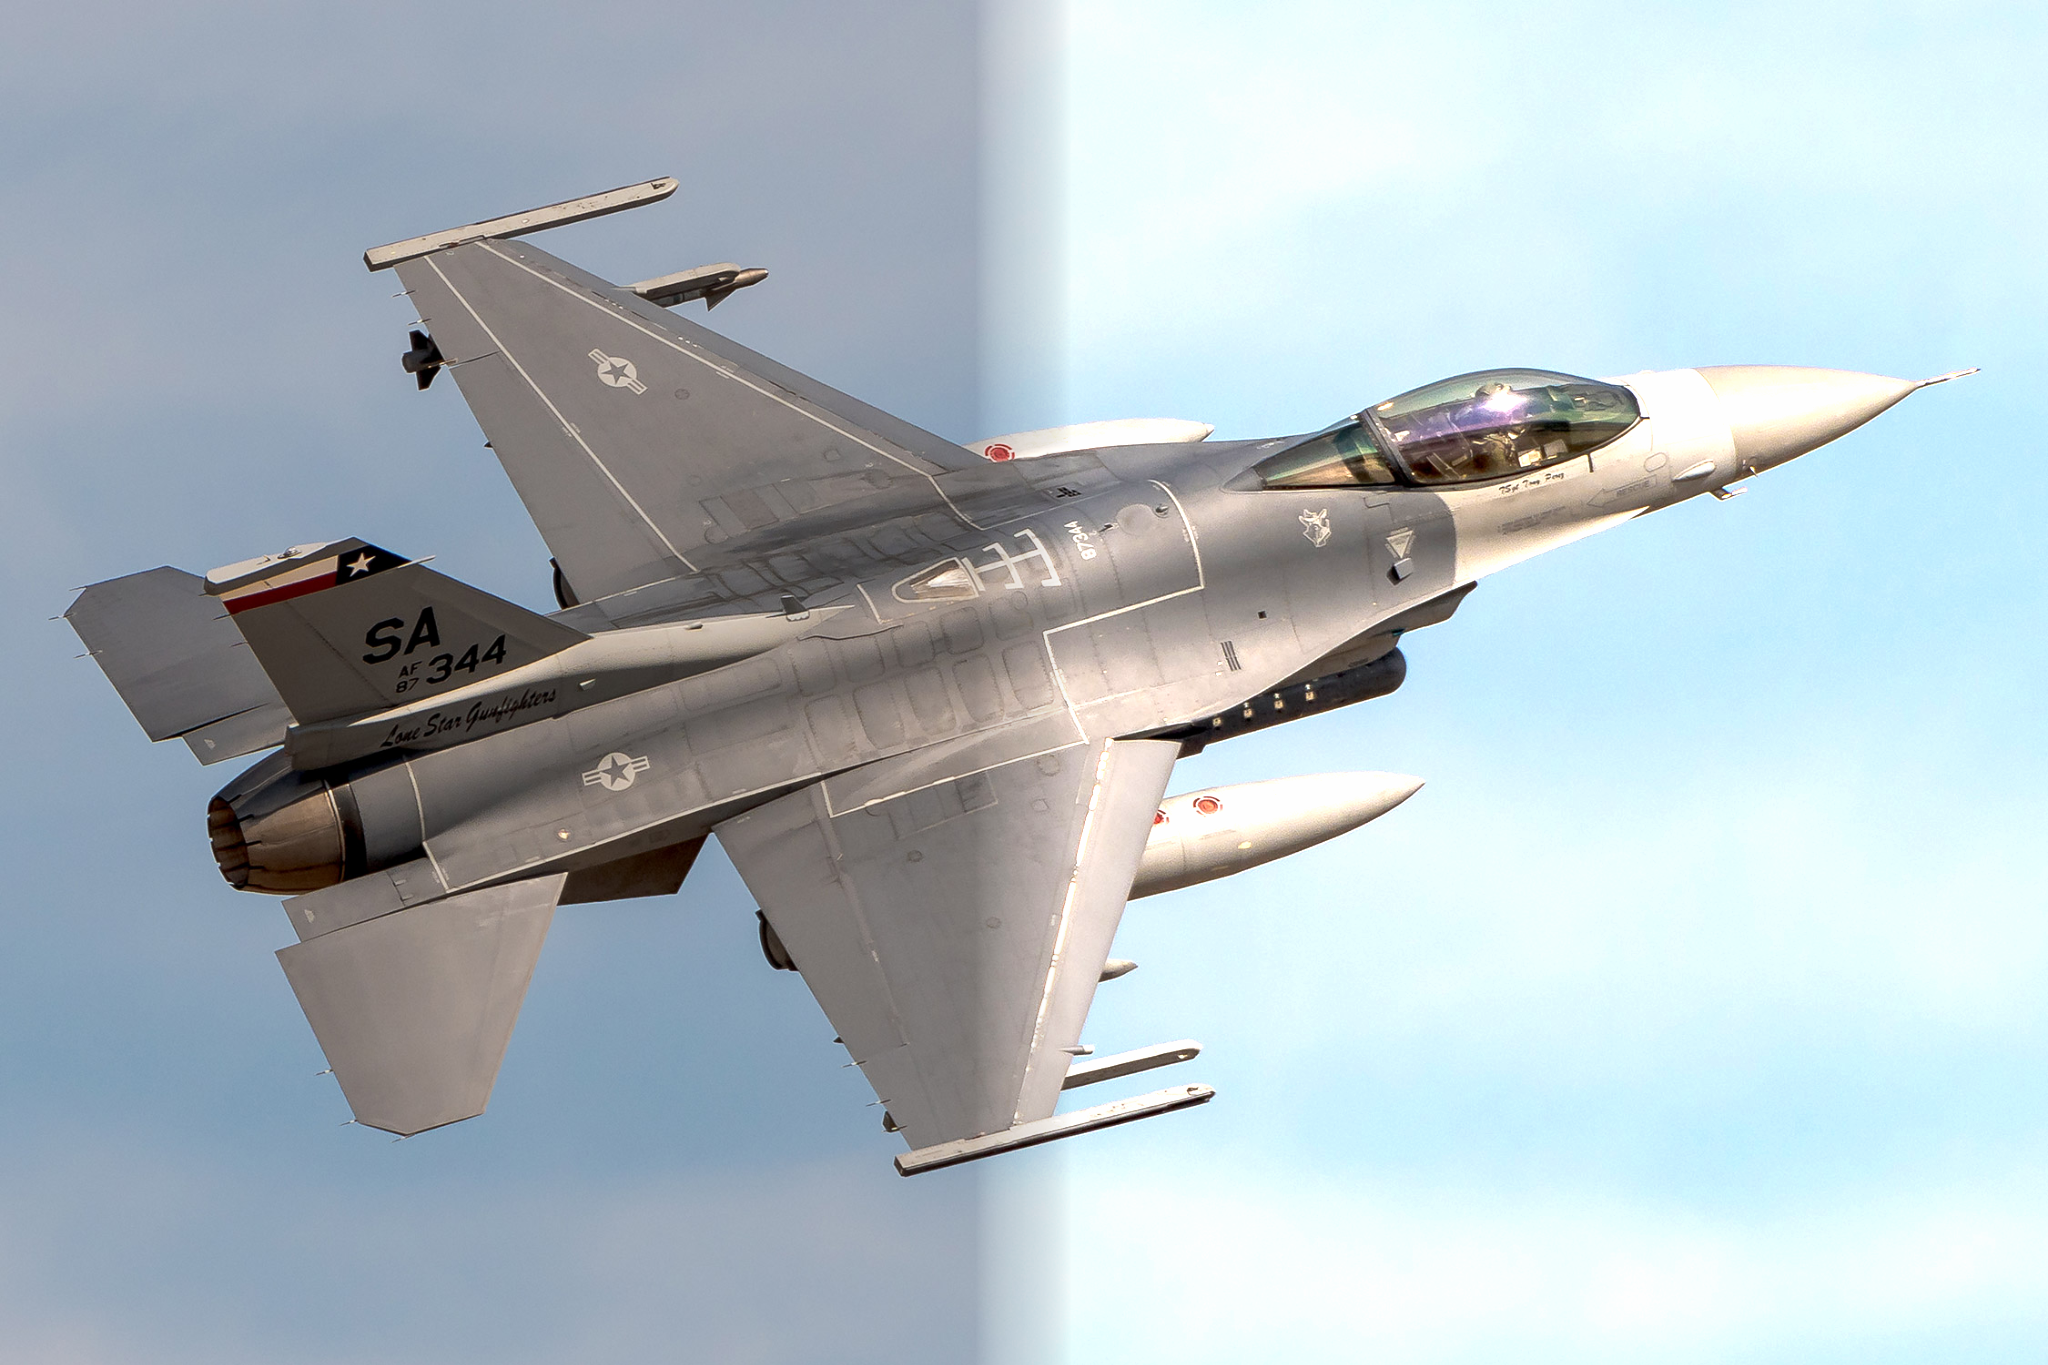
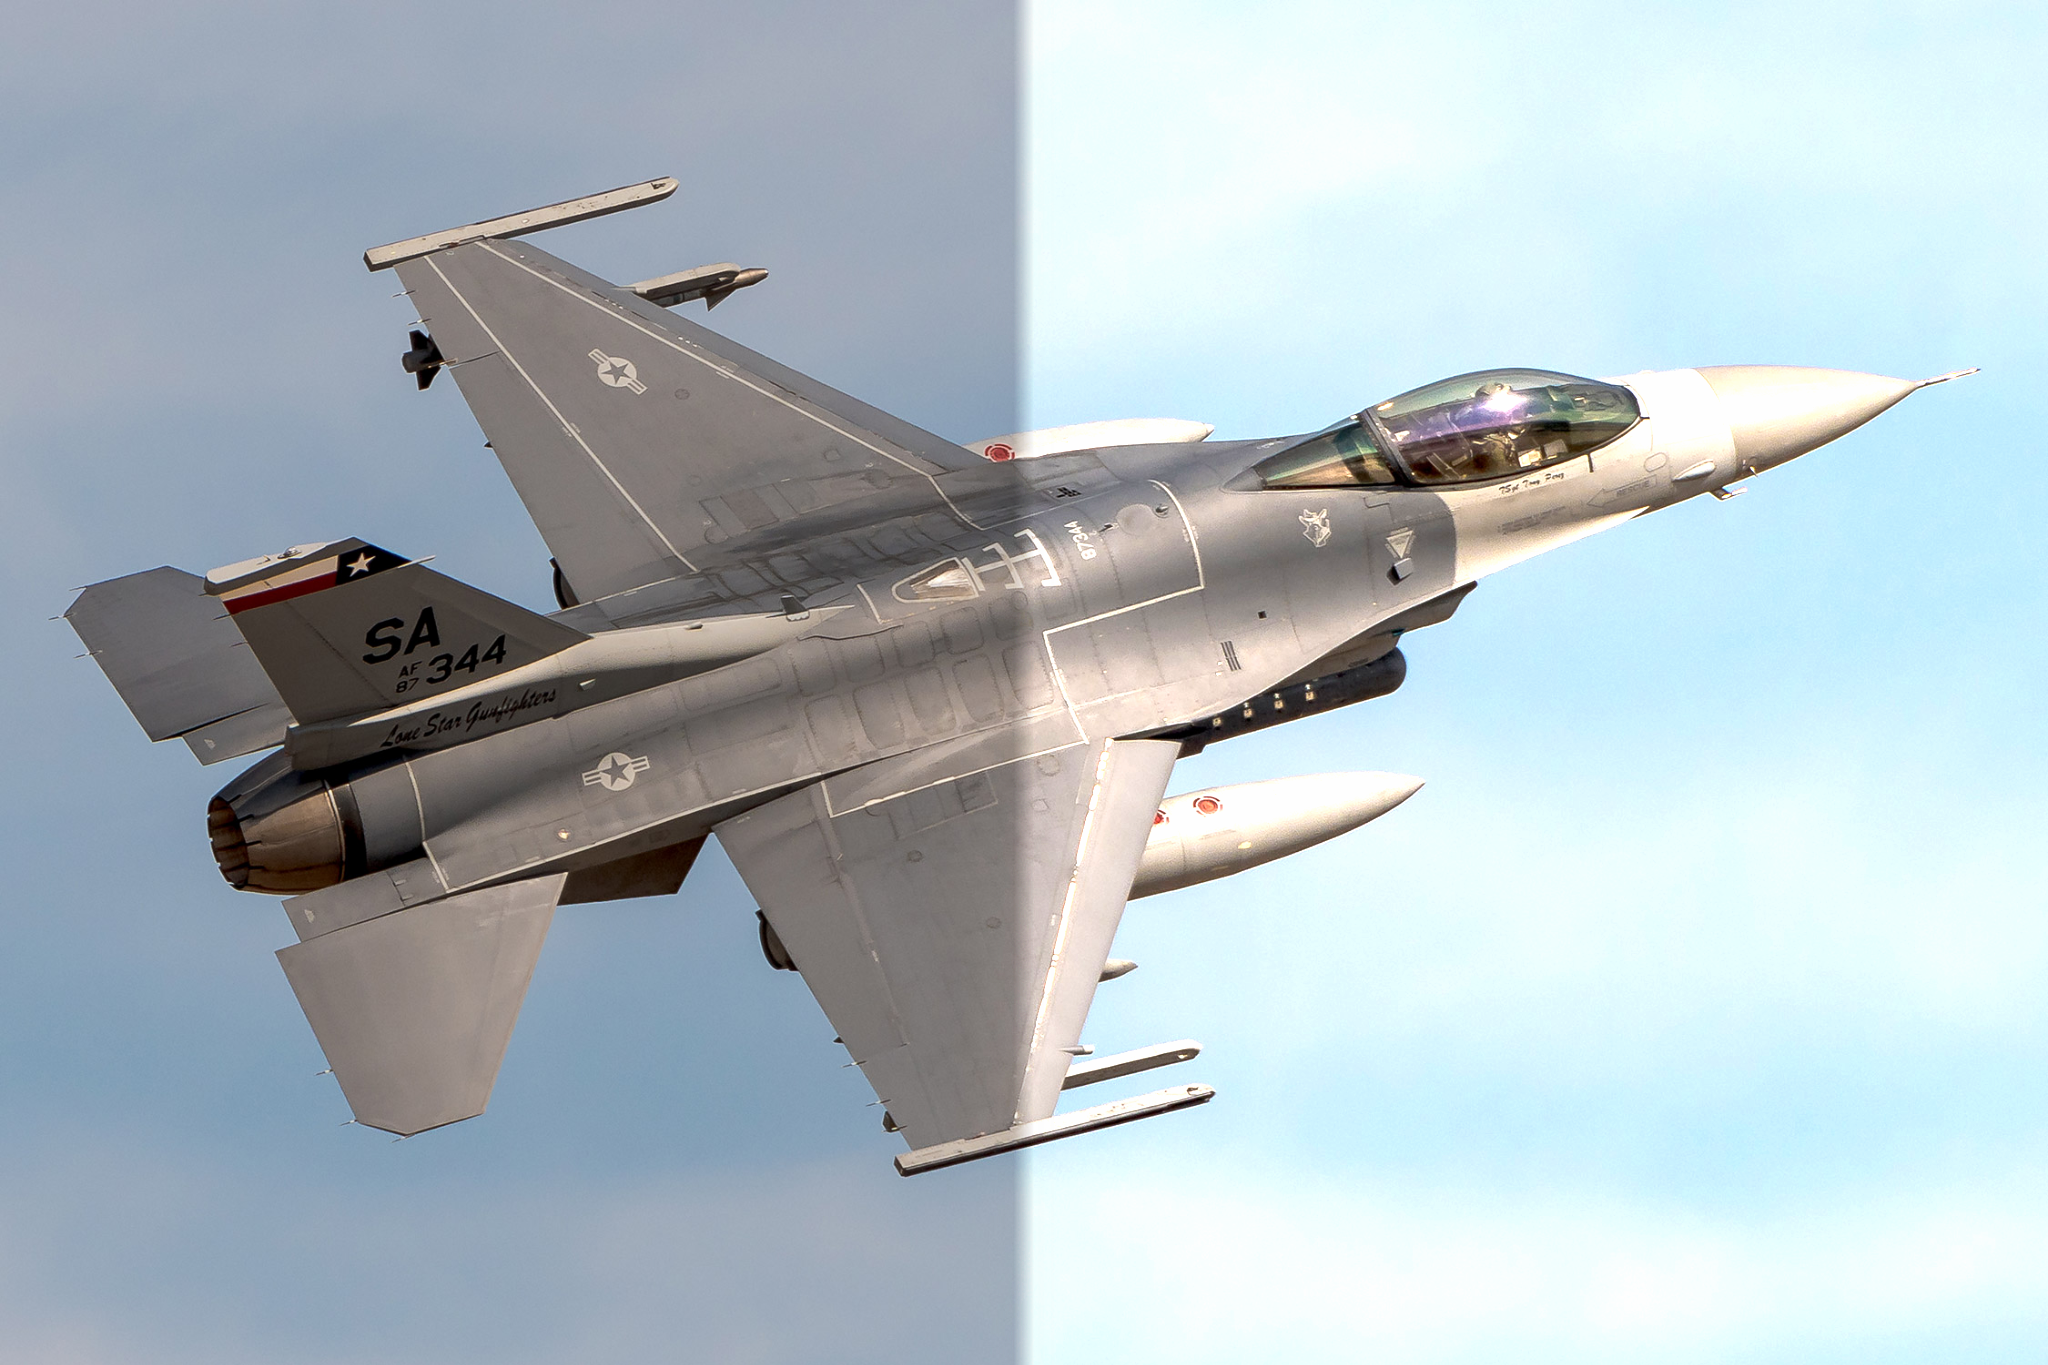
feat(MultibandBlender): add functionality for remaining methods.
blend(): combine gaussian and laplacian outputs into single blended image
blendPyramids(): blend laplacian pyramids with gradient masks
reconstructFromLaplacianPyramid(): reconstruct final image by adding all pyramid levels

saveGaussLapPyramids(): save laplacian and gaussian pyramids for the images and masks to verify functionality

Changed region(s): [[0.4688, 0.4923, 0.5312, 1.0], [0.4688, 0.0, 0.5312, 0.3385], [0.4688, 0.4, 0.5312, 0.4615]]

diff --git a/src/MultibandBlender.cpp b/src/MultibandBlender.cpp
@@ -3,71 +3,149 @@
 #include <opencv2/cudawarping.hpp>
 #include <opencv2/cudaarithm.hpp>
 
-cv::Mat MultibandBlender::blend(const cv::Mat& img1, const cv::Mat& img2, const cv::Mat& mask)
+
+// Combine the outputs gaussian and laplacian pyramids into a final blend
+cv::Mat MultibandBlender::blend(const cv::Mat& left_img, const cv::Mat& right_img, const cv::Mat& mask)
 {
-    cv::Mat result;
-    return result;
+    CV_Assert(left_img.size() == right_img.size() && left_img.type() == right_img.type());
+    CV_Assert(mask.size() == left_img.size());
+    CV_Assert(levels_ >= 1);
+
+    // streams per input
+    cv::cuda::Stream left_stream, right_stream, mask_stream;
+
+    // upload
+    cv::cuda::GpuMat left_img_gpu, right_img_gpu, mask_gpu;
+    left_img_gpu.upload(left_img, left_stream);
+    right_img_gpu.upload(right_img, right_stream);
+    mask_gpu.upload(mask, mask_stream);
+
+    // convert on gpu, normalize
+    cv::cuda::GpuMat left_img_f_gpu, right_img_f_gpu, mask_f_gpu;
+    left_img_gpu.convertTo(left_img_f_gpu, CV_32FC3, 1.0 / 255.0, 0.0, left_stream);
+    right_img_gpu.convertTo(right_img_f_gpu, CV_32FC3, 1.0 / 255.0, 0.0, right_stream);
+    if (mask_gpu.type() != CV_32FC1)
+        mask_gpu.convertTo(mask_f_gpu, CV_32FC1, 1.0 / 255.0, 0.0, mask_stream);
+    else
+        mask_f_gpu = mask_gpu;
+
+    // build 3 Gaussian pyramids in parallel
+    auto left_gauss_pyrs = buildGaussianPyramid(left_img_f_gpu, levels_, left_stream);
+    auto right_gauss_pyrs = buildGaussianPyramid(right_img_f_gpu, levels_, right_stream);
+    auto mask_gauss_pyrs = buildGaussianPyramid(mask_f_gpu, levels_, mask_stream);
+
+    // let streams finish
+    left_stream.waitForCompletion();
+    right_stream.waitForCompletion();
+    mask_stream.waitForCompletion();
+
+
+    auto left_lap_pyrs = buildLaplacianPyramid(left_gauss_pyrs);
+    auto right_lap_pyrs = buildLaplacianPyramid(right_gauss_pyrs);
+
+    // blend every pyramid level
+    auto blended_lap_pyrs = blendPyramids(left_lap_pyrs, right_lap_pyrs, mask_gauss_pyrs);
+
+    // add levels back together for final result
+    cv::cuda::GpuMat blend_result_32_gpu = reconstructFromLaplacianPyramid(blended_lap_pyrs);
+
+    cv::cuda::GpuMat blend_result_8_gpu;
+    blend_result_32_gpu.convertTo(blend_result_8_gpu, CV_8UC3, 255.0);
+    
+    cv::Mat blend_result;
+    blend_result_8_gpu.download(blend_result);
+
+    return blend_result;
 }
 
-
-std::vector<cv::cuda::GpuMat> MultibandBlender::buildGaussianPyramid(const cv::cuda::GpuMat& img, int levels)
+// Build gaussian pyramids by repeatedly smoothing and downsampling the image
+std::vector<cv::cuda::GpuMat> MultibandBlender::buildGaussianPyramid(const cv::cuda::GpuMat& img, int levels, cv::cuda::Stream& s)
 {
-    std::vector<cv::cuda::GpuMat> pyr;
-    pyr.resize(levels);
-
-    // level 0 is the original
-    pyr[0] = img;
-
-    for (int i = 0; i < levels - 1; ++i) {
-        cv::cuda::pyrDown(pyr[i], pyr[i + 1]);
+    std::vector<cv::cuda::GpuMat> gauss_pyrs(levels);
+    gauss_pyrs[0] = img;
+    for (int i = 0; i < levels - 1; i++) {
+        cv::cuda::pyrDown(gauss_pyrs[i], gauss_pyrs[i + 1], s);
     }
-    return pyr;
+    return gauss_pyrs;
 }
 
-std::vector<cv::cuda::GpuMat> MultibandBlender::buildLaplacianPyramid(const std::vector<cv::cuda::GpuMat>& gauss)
+// Build the laplacian pyramids by upsampling gauss pyr and subtracting the upsampled version from the original gauss
+std::vector<cv::cuda::GpuMat> MultibandBlender::buildLaplacianPyramid(const std::vector<cv::cuda::GpuMat>& gauss_pyrs)
 {
-    const int pyr_num = static_cast<int>(gauss.size());
+    const int pyr_num = static_cast<int>(gauss_pyrs.size());
     std::vector<cv::cuda::Stream> streams(pyr_num - 1);
 
-    std::vector<cv::cuda::GpuMat> ups(pyr_num - 1);
-    std::vector<cv::cuda::GpuMat> laps(pyr_num - 1);
+    std::vector<cv::cuda::GpuMat> upsampled_pyrs(pyr_num - 1);
+    std::vector<cv::cuda::GpuMat> lap_pyrs(pyr_num);
 
     for (int i = 0; i < pyr_num - 1; i++) {
         auto& s = streams[i];
 
-        cv::cuda::pyrUp(gauss[i + 1], ups[i], s);
+        cv::cuda::pyrUp(gauss_pyrs[i + 1], upsampled_pyrs[i], s);
 
         // resize if needed
-        if (ups[i].size() != gauss[i].size()) {
-            cv::cuda::resize(ups[i], ups[i], gauss[i].size(), 0, 0, cv::INTER_LINEAR, s);
+        if (upsampled_pyrs[i].size() != gauss_pyrs[i].size()) {
+            cv::cuda::resize(upsampled_pyrs[i], upsampled_pyrs[i], gauss_pyrs[i].size(), 0, 0, cv::INTER_LINEAR, s);
         }
 
-        cv::cuda::subtract(gauss[i], ups[i], laps[i], cv::noArray(), -1, s);
+        cv::cuda::subtract(gauss_pyrs[i], upsampled_pyrs[i], lap_pyrs[i], cv::noArray(), -1, s);
     }
 
-    // wait for streams to complete
+    // wait for streams to finish
     for (auto& s : streams) s.waitForCompletion();
 
-    std::vector<cv::cuda::GpuMat> lap_pyrs;
-    lap_pyrs.reserve(pyr_num);
-    for (int i = 0; i < pyr_num - 1; ++i) lap_pyrs.push_back(laps[i]);
-    
     // last level is gaussian
-    lap_pyrs.push_back(gauss.back());
+    lap_pyrs[pyr_num - 1] = gauss_pyrs.back();
+
     return lap_pyrs;
 }
 
-std::vector<cv::cuda::GpuMat> MultibandBlender::blendPyramids(
-    const std::vector<cv::cuda::GpuMat>& lap1,
-    const std::vector<cv::cuda::GpuMat>& lap2,
-    const std::vector<cv::cuda::GpuMat>& mask_gauss)
-{
-    cv::Mat result;
-    return result;
+// expand 1-ch mask to 3-ch
+static void to3(const cv::cuda::GpuMat& one, cv::cuda::GpuMat& three) {
+    std::vector<cv::cuda::GpuMat> ch(3, one);
+    cv::cuda::merge(ch, three);
 }
 
+// Blend the pyramids by multiplying each level by their gradient mask, and summing the results
+std::vector<cv::cuda::GpuMat> MultibandBlender::blendPyramids(const std::vector<cv::cuda::GpuMat>& left_lap_pyrs, const std::vector<cv::cuda::GpuMat>& right_lap_pyrs, const std::vector<cv::cuda::GpuMat>& mask_gauss)
+{
+    std::vector<cv::cuda::GpuMat> blended_pyrs;
+    blended_pyrs.reserve(left_lap_pyrs.size());
+
+    for (size_t i = 0; i < left_lap_pyrs.size(); i++) {
+        
+        cv::cuda::GpuMat ones(mask_gauss[i].size(), mask_gauss[i].type()); 
+        ones.setTo(1.0);
+
+        cv::cuda::GpuMat inverse_mask1; 
+        cv::cuda::subtract(ones, mask_gauss[i], inverse_mask1);
+
+        cv::cuda::GpuMat mask3, inverse_mask3; 
+        to3(mask_gauss[i], mask3);
+        to3(inverse_mask1, inverse_mask3);
+
+        cv::cuda::GpuMat left_lap_scaled, right_lap_scaled, sum;
+        cv::cuda::multiply(left_lap_pyrs[i], mask3, left_lap_scaled);
+        cv::cuda::multiply(right_lap_pyrs[i], inverse_mask3, right_lap_scaled);
+        cv::cuda::add(left_lap_scaled, right_lap_scaled, sum);
+        blended_pyrs.push_back(sum);
+    }
+    return blended_pyrs;
+}
+
+// Reconstruct the final image by adding up all the pyramid levels
 cv::cuda::GpuMat MultibandBlender::reconstructFromLaplacianPyramid(const std::vector<cv::cuda::GpuMat>& lap)
 {
-    cv::cuda::GpuMat result;
-    return result;
+    cv::cuda::GpuMat cur_lap = lap.back();
+    
+    for (int i = static_cast<int>(lap.size()) - 2; i >= 0; i--) {
+        cv::cuda::GpuMat upsampled_lap;
+        cv::cuda::pyrUp(cur_lap, upsampled_lap);
+
+        if (upsampled_lap.size() != lap[i].size())
+            cv::cuda::resize(upsampled_lap, upsampled_lap, lap[i].size());
+        
+        cv::cuda::add(upsampled_lap, lap[i], cur_lap);
+    }
+    return cur_lap;
 }

diff --git a/src/cuda-multiband-blender.cpp b/src/cuda-multiband-blender.cpp
@@ -1,5 +1,4 @@
-
-#include <iostream>
+#include <iostream>
 #include <opencv2/opencv.hpp>
 #include <filesystem>
 #include <string>
@@ -10,7 +9,7 @@
 namespace fs = std::filesystem;
 
 
-
+// Check if cuda is available. Need it to run the program
 static bool checkForCuda() {
 
     int n = cv::cuda::getCudaEnabledDeviceCount();
@@ -37,7 +36,7 @@ static cv::Mat loadImage(const fs::path& image_path) {
     return image;
 }
 
-
+// Use OpenCV's feather blender on the input images
 static cv::Mat runFeatherBlend(const cv::Mat& left_16s, const cv::Mat& right_16s, const cv::Mat& mask_left, const cv::Mat& mask_right, const cv::Rect& roi_location) {
     cv::detail::FeatherBlender feather_blender;
     
@@ -55,6 +54,48 @@ static cv::Mat runFeatherBlend(const cv::Mat& left_16s, const cv::Mat& right_16s
     return feather_output_8U;
 }
 
+// Save gauss and lap pyramids for evaluation
+static void saveGaussLapPyramids(MultibandBlender& custom_blender, cv::Mat& left_img, cv::Mat& right_img, cv::Mat& left_mask, fs::path& pyr_dir) {
+    cv::cuda::GpuMat left_img_gpu, left_mask_gpu;
+    left_img_gpu.upload(left_img);
+    left_mask_gpu.upload(left_mask);
+    cv::cuda::Stream s;
+
+    // save left image gauss pyramids
+    auto pyr_results = custom_blender.buildGaussianPyramid(left_img_gpu, 5, s);
+    for (int i = 0; i < pyr_results.size(); i++) {
+        fs::path out_path = pyr_dir / ("gauss_" + std::to_string(i) + ".png");
+        cv::Mat temp;
+        pyr_results[i].download(temp);
+        //cv::imshow(std::to_string(i), temp);
+        cv::imwrite(out_path.string(), temp);
+    }
+
+    
+    // save left image laplace pyramids
+    auto laplace_result = custom_blender.buildLaplacianPyramid(pyr_results);
+    for (int i = 0; i < laplace_result.size(); i++) {
+        fs::path out_path = pyr_dir / ("lap_" + std::to_string(i) + ".png");
+        cv::Mat temp;
+        laplace_result[i].download(temp);
+        //cv::imshow(std::to_string(i), temp);
+        cv::imwrite(out_path.string(), temp);
+
+    }
+
+    // save left mask gauss pyramids
+    auto mask_pyr_results = custom_blender.buildGaussianPyramid(left_mask_gpu, 5, s);
+    for (int i = 0; i < mask_pyr_results.size(); i++) {
+        fs::path out_path = pyr_dir / ("gauss_mask_" + std::to_string(i) + ".png");
+        cv::Mat temp;
+        mask_pyr_results[i].download(temp);
+        //cv::imshow(std::to_string(i), temp);
+        cv::imwrite(out_path.string(), temp);
+    }
+
+    std::cout << "Saved pyramids to: " << pyr_dir << "\n";
+}
+
 
 
 int main()
@@ -64,8 +105,7 @@ int main()
         return EXIT_FAILURE;
     }
     
-
-    /* Set up paths for inputs and outputs */
+    // Set up paths for inputs and outputs 
     fs::path data_dir = "data";    
     fs::path left_img_path = data_dir / "f16_left.png";
     fs::path right_img_path = data_dir / "f16_right.png";
@@ -75,10 +115,13 @@ int main()
     fs::create_directories(results_dir);
     fs::path multiband_result_path = results_dir / "multiband_blend.png";
     fs::path feather_result_path = results_dir / "feather_blend.png";
-    fs::path mask_result_p = results_dir / "mask.png";
+    fs::path mask_result_path = results_dir / "mask.png";
+    fs::path pyr_dir = results_dir / "pyramids";
+    fs::create_directories(pyr_dir);
 
 
-    /* Load images, check size */
+
+    // Load images, check size 
     cv::Mat left_img = loadImage(left_img_path);
     cv::Mat right_img = loadImage(right_img_path);
     
@@ -86,74 +129,40 @@ int main()
         cv::resize(right_img, right_img, left_img.size());
     }
     
-    /* Create masks */
-    cv::Mat mask_left, mask_right;
-    const int overlap_cols = 100;
-    blend::masks::makeSoftMasks(left_img, right_img, mask_left, mask_right, overlap_cols);
+    // Create masks
+    cv::Mat left_mask, right_mask;
+    const int overlap_cols = 20;
+    blend::masks::makeSoftMasks(left_img, right_img, left_mask, right_mask, overlap_cols);
 
-    /* Create ROI */
+    // Create ROI
     const int width = left_img.cols;
     const int height = left_img.rows;
     cv::Rect roi_location(cv::Point(0, 0), cv::Size(width, height));
 
-    /* Prepare inputs for blending */
+    // Brighten one image to make blending more difficult
     const double alpha = 1.5;
     const double beta = 0;
     right_img.convertTo(right_img, -1, alpha, beta);
 
 
-
-    MultibandBlender custom_blender;
-
-    cv::cuda::GpuMat left_img_gpu;
-    std::vector< cv::cuda::GpuMat> pyr_results;
-    left_img_gpu.upload(left_img);
-    pyr_results = custom_blender.buildGaussianPyramid(left_img_gpu, 5);
-
-    std::cout << "*** pyr size: " << pyr_results.size();
-
-    for (int i = 0; i < pyr_results.size(); i++) {
-        cv::Mat temp;
-        pyr_results[i].download(temp);
-        cv::imshow(std::to_string(i), temp);
-    }
-    cv::waitKey(0);
-
-    /*auto laplac_result = custom_blender.buildLaplacianPyramid(pyr_results);
+    // Run custom blender, save output
+    MultibandBlender custom_blender(8);
+    cv::Mat overlap_blended = custom_blender.blend(left_img, right_img, left_mask);
+    saveGaussLapPyramids(custom_blender, left_img, right_img, left_mask, pyr_dir);
+    cv::imwrite(multiband_result_path.string(), overlap_blended);
+    cv::imshow("Custom blender", overlap_blended);
     
-    std::cout << "*** pyr size: " << laplac_result.size();
-
-    for (int i = 0; i < laplac_result.size(); i++) {
-        cv::Mat temp;
-        laplac_result[i].download(temp);
-        cv::imshow(std::to_string(i), temp);
-    }
-    cv::waitKey(0);*/
-
-
-
-
+    // Prepare inputs for Feather Blender
     cv::Mat left_img_16s, right_img_16s;
     left_img.convertTo(left_img_16s, CV_16SC3);
     right_img.convertTo(right_img_16s, CV_16SC3);
 
-    cv::Mat feather_output = runFeatherBlend(left_img_16s, right_img_16s, mask_left, mask_right, roi_location);
-
+    // Run feather blender, save output
+    cv::Mat feather_output = runFeatherBlend(left_img_16s, right_img_16s, left_mask, right_mask, roi_location);
+    cv::imwrite(feather_result_path.string(), feather_output);
+    cv::imwrite(mask_result_path.string(), left_mask);
     cv::imshow("OpenCV Feather", feather_output);
     cv::waitKey(0);
-
-    cv::imwrite(feather_result_path.string(), feather_output);
-    cv::imwrite(mask_result_p.string(), mask_left);
 }
-
-
-
-
-
-
-
-
-
-
 
 

diff --git a/src/MultibandBlender.hpp b/src/MultibandBlender.hpp
@@ -10,15 +10,12 @@ public:
 
     // Blend two images with a mask
     cv::Mat blend(const cv::Mat& img1, const cv::Mat& img2, const cv::Mat& mask);
+    std::vector<cv::cuda::GpuMat> buildGaussianPyramid(const cv::cuda::GpuMat& img, int levels, cv::cuda::Stream& s);
+    std::vector<cv::cuda::GpuMat> buildLaplacianPyramid(const std::vector<cv::cuda::GpuMat>& gauss);
 
-//private:
+private:
     int levels_;
 
-    // CUDA helper functions
-    std::vector<cv::cuda::GpuMat> buildGaussianPyramid(const cv::cuda::GpuMat& img, int levels);
-    std::vector<cv::cuda::GpuMat> buildLaplacianPyramid(const std::vector<cv::cuda::GpuMat>& gauss);
-    std::vector<cv::cuda::GpuMat> blendPyramids(const std::vector<cv::cuda::GpuMat>& lap1, 
-                                                      const std::vector<cv::cuda::GpuMat>& lap2, 
-                                                      const std::vector<cv::cuda::GpuMat>& mask_gauss);
+    std::vector<cv::cuda::GpuMat> blendPyramids(const std::vector<cv::cuda::GpuMat>& lap1, const std::vector<cv::cuda::GpuMat>& lap2, const std::vector<cv::cuda::GpuMat>& mask_gauss);
     cv::cuda::GpuMat reconstructFromLaplacianPyramid(const std::vector<cv::cuda::GpuMat>& lap);
 };
